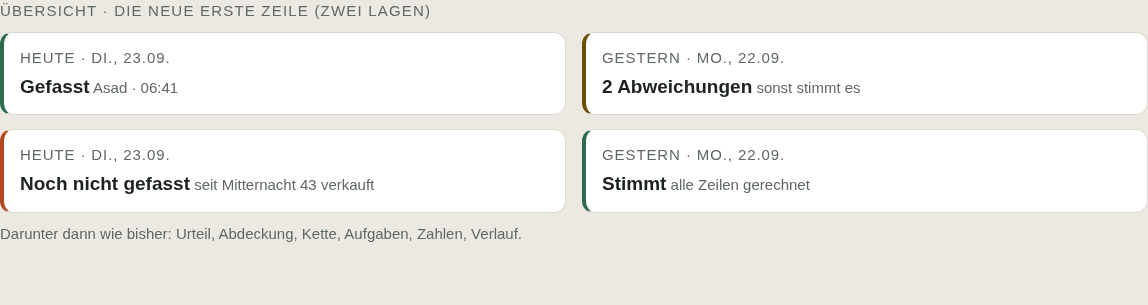
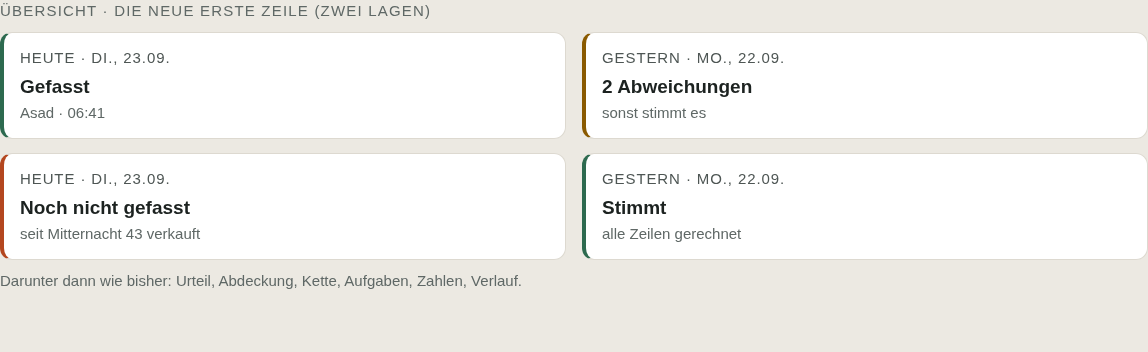
[software-engineer] Runde 23: Bilder nachgebessert und nachgemessen
Drei Fehler im ersten Entwurf, alle am Geraet gefunden:
- Bei 393 px fiel die Spalte "woher" ganz aus dem Bild - und genau die
  sagt, ob eine Zahl gilt. Jetzt steht sie unter dem Artikelnamen, drei
  Spalten statt vier, kein Querscrollen mehr.
- Am MacBook lagen 900 px zwischen Artikelname und seinen Zahlen.
  Begrenzt auf 720 px, wie die Tafel aus Runde 20.
- "seit Mitternacht 43 verkauft" brach mitten im Satz um. Eigene Zeile.

Dazu: die gelbe Fuellung der leeren Zeilen ist weg. Bei 33 von 37
Getraenken waere die halbe Liste gelb gewesen und haette nichts mehr
gesagt; jetzt steht "fehlt - rechnet nicht mit" an der Zeile und die
Zahl im Gruppenkopf.

Gemessen bei 393/744/1440: kein Ueberlauf, keine Ueberlappung, nichts
abgeschnitten, keine Schrift unter 13 px, kein Griff unter 40 px, alle
Zahlenfelder gleich breit und auf derselben Kante.

Claude-Session: https://claude.ai/code/session_01VE9gPp3grGfHsrmsKK7TD6

diff --git a/review/mockup/groessen-frage1.html b/review/mockup/groessen-frage1.html
@@ -939,30 +939,40 @@ tr.weicht td{background:var(--warn-bg)}
 .mockkopf{font:var(--text-xs)/1.4 var(--font-ui);letter-spacing:.08em;
   text-transform:uppercase;color:var(--fg-subtle);margin:0 0 10px}
 .blk{padding-bottom:20px;background:var(--bg)}
-input.zahl-e{width:92px;padding:6px 8px;text-align:right;
+/* Drei Spalten, damit die Tabelle auch bei 393 px ohne Querscrollen passt:
+   „woher" steht unter dem Artikelnamen statt in einer vierten Spalte. */
+/* Am MacBook laegen sonst 900 px zwischen dem Artikelnamen und seinen
+   Zahlen — man verliert beim Hinuebersehen die Zeile. Diese Tabelle wird
+   gelesen und ausgefuellt, nicht durchsucht. */
+.tabhuelle.liste{max-width:720px}
+.tabhuelle.liste table{min-width:0;width:100%}
+.tabhuelle.liste th.r,.tabhuelle.liste td.nw{width:1%}
+input.zahl-e{width:86px;padding:6px 8px;text-align:right;
   font:var(--text-sm)/1 var(--font-ui);
   border:1px solid var(--border);border-radius:var(--radius-sm);
   background:var(--surface);color:var(--fg)}
+.quelle{font-size:var(--text-xs);color:var(--fg-secondary);margin-top:2px}
+.quelle.regel{color:#2d6a4f;font-weight:var(--weight-medium)}
+.quelle.fehlt{color:#8a5a00;font-weight:var(--weight-medium)}
 td.nw{white-space:nowrap}
-.quelle{font-size:var(--text-xs);color:var(--fg-subtle)}
-.quelle.regel{color:var(--ok-fg,#2d6a4f);font-weight:var(--weight-medium)}
-.quelle.leer{color:var(--fg-subtle);font-style:italic}
-tr.fehlt td{background:var(--warn-bg)}
 .frage1{display:grid;grid-template-columns:1fr 1fr;gap:var(--space-4)}
 .f1{display:block;padding:14px 16px;border-radius:var(--radius-lg);
   border:1px solid var(--border);background:var(--surface);
-  text-decoration:none;color:inherit;border-left-width:4px}
-.f1.ok{border-left-color:var(--ok-fg,#2d6a4f)}
-.f1.warn{border-left-color:var(--warn-fg,#8a6d1f)}
+  text-decoration:none;color:inherit;border-left-width:4px;min-height:44px}
+.f1.ok{border-left-color:#2d6a4f}
+.f1.warn{border-left-color:#8a5a00}
 .f1.bad{border-left-color:var(--danger)}
 .f1k{font-size:var(--text-xs);text-transform:uppercase;letter-spacing:.06em;
-  color:var(--fg-subtle);margin-bottom:4px}
-.f1w b{font-size:var(--text-lg)}
+  color:var(--fg-secondary);margin-bottom:4px}
+.f1w b{font-size:var(--text-lg);display:block}
+/* Eigene Zeile, nicht hinter dem fetten Wort: bei 393 px brach
+   „seit Mitternacht 43 verkauft" sonst mitten im Satz um. */
+.f1w .mini{display:block;margin-top:2px}
 @media(max-width:700px){
   .mockseite{padding:16px}
   .frage1{grid-template-columns:1fr}
-  input.zahl-e{width:74px}
-  .tabhuelle table{min-width:520px}
+  input.zahl-e{width:76px}
+  .tabhuelle.liste th,.tabhuelle.liste td{padding-left:10px;padding-right:10px}
 }
 
 </style></head><body><div class="mockseite">
@@ -971,35 +981,13 @@ tr.fehlt td{background:var(--warn-bg)}
  <div class="unter" style="margin-bottom:12px">Einmal hinterlegt, gilt für alle Geräte.
  Gerechnet wird nur, was hier steht — ein leeres Feld heißt „nicht hinterlegt",
  und die Position bleibt aus dem Abgleich heraus.</div>
- <div class="tabhuelle"><table><thead><tr>
-   <th>Artikel</th><th class="r">Gebinde</th><th class="r">ins Glas</th><th>woher</th>
- </tr></thead><tbody><tr class="zwt"><td colspan="4">Wein <span class="mini">57 Artikel</span></td></tr><tr><td>Werner Achs · Goldberg 2024</td><td class="r nw"><input class="zahl-e" type="number" value="750"></td><td class="r nw"><input class="zahl-e" type="number" value="125"></td><td><span class="quelle regel">Regel</span></td></tr><tr><td>Nittnaus · Kalk & Schiefer 2019</td><td class="r nw"><input class="zahl-e" type="number" value="750"></td><td class="r nw"><input class="zahl-e" type="number" value="125"></td><td><span class="quelle regel">Regel</span></td></tr><tr><td>Bründlmayer · Spiegel 2022</td><td class="r nw"><input class="zahl-e" type="number" value="750"></td><td class="r nw"><input class="zahl-e" type="number" value="125"></td><td><span class="quelle regel">Regel</span></td></tr><tr><td>Serena · Piu Frizzante</td><td class="r nw"><input class="zahl-e" type="number" value="750"></td><td class="r nw"><input class="zahl-e" type="number" value="100"></td><td><span class="quelle regel">Regel · Sekt</span></td></tr><tr><td>De Saint Gall · Champagne 1er Cru</td><td class="r nw"><input class="zahl-e" type="number" value="750"></td><td class="r nw"><input class="zahl-e" type="number" value="100"></td><td><span class="quelle regel">Regel · Sekt</span></td></tr><tr class="zwt"><td colspan="4">Getränke <span class="mini">37 Artikel</span></td></tr><tr><td>Gasteiner 1 l</td><td class="r nw"><input class="zahl-e" type="number" value="1000"></td><td class="r nw"><input class="zahl-e" type="number" placeholder="ml"></td><td><span class="quelle">aus dem Artikelnamen</span></td></tr><tr><td>Gasteiner 0,25 l</td><td class="r nw"><input class="zahl-e" type="number" value="250"></td><td class="r nw"><input class="zahl-e" type="number" placeholder="ml"></td><td><span class="quelle">aus dem Artikelnamen</span></td></tr><tr><td>Cola Zero</td><td class="r nw"><input class="zahl-e" type="number" value="350"></td><td class="r nw"><input class="zahl-e" type="number" placeholder="ml"></td><td><span class="quelle">aus „Cola Zero 0,35l"</span></td></tr><tr><td>Orange Lemonade</td><td class="r nw"><input class="zahl-e" type="number" value="350"></td><td class="r nw"><input class="zahl-e" type="number" placeholder="ml"></td><td><span class="quelle">aus „Now-Limo Orange 0,35l"</span></td></tr><tr class="fehlt"><td>Almdudler</td><td class="r nw"><input class="zahl-e" type="number" placeholder="ml"></td><td class="r nw"><input class="zahl-e" type="number" placeholder="ml"></td><td><span class="quelle leer">fehlt</span></td></tr><tr class="fehlt"><td>Spritzerwein</td><td class="r nw"><input class="zahl-e" type="number" placeholder="ml"></td><td class="r nw"><input class="zahl-e" type="number" placeholder="ml"></td><td><span class="quelle leer">fehlt</span></td></tr><tr class="fehlt"><td>Stiegl 0,0 % · 0,33</td><td class="r nw"><input class="zahl-e" type="number" placeholder="ml"></td><td class="r nw"><input class="zahl-e" type="number" placeholder="ml"></td><td><span class="quelle leer">fehlt</span></td></tr><tr class="zwt"><td colspan="4">Vom Fass <span class="mini">1 Artikel</span></td></tr><tr><td>Raschhofer Pils vom Fass</td><td class="r nw"><input class="zahl-e" type="number" value="50000"></td><td class="r nw"><input class="zahl-e" type="number" placeholder="ml"></td><td><span class="quelle regel">Regel · ein Fass 50 l</span></td></tr></tbody></table></div>
+ <div class="tabhuelle liste"><table><thead><tr>
+   <th>Artikel</th><th class="r">Gebinde</th><th class="r">ins Glas</th>
+ </tr></thead><tbody><tr class="zwt"><td colspan="3">Wein <span class="mini">57 Artikel · alle hinterlegt</span></td></tr><tr><td>Werner Achs · Goldberg 2024<div class="quelle regel">Regel · Weinflasche</div></td><td class="r nw"><input class="zahl-e" type="number" value="750"></td><td class="r nw"><input class="zahl-e" type="number" value="125"></td></tr><tr><td>Nittnaus · Kalk & Schiefer 2019<div class="quelle regel">Regel · Weinflasche</div></td><td class="r nw"><input class="zahl-e" type="number" value="750"></td><td class="r nw"><input class="zahl-e" type="number" value="125"></td></tr><tr><td>Bründlmayer · Spiegel 2022<div class="quelle regel">Regel · Weinflasche</div></td><td class="r nw"><input class="zahl-e" type="number" value="750"></td><td class="r nw"><input class="zahl-e" type="number" value="125"></td></tr><tr><td>Serena · Piu Frizzante<div class="quelle regel">Regel · Sekt, Glas 100 ml</div></td><td class="r nw"><input class="zahl-e" type="number" value="750"></td><td class="r nw"><input class="zahl-e" type="number" value="100"></td></tr><tr><td>De Saint Gall · Champagne 1er Cru<div class="quelle regel">Regel · Sekt, Glas 100 ml</div></td><td class="r nw"><input class="zahl-e" type="number" value="750"></td><td class="r nw"><input class="zahl-e" type="number" value="100"></td></tr><tr class="zwt"><td colspan="3">Getränke <span class="mini">37 Artikel · 33 ohne Größe</span></td></tr><tr><td>Gasteiner 1 l<div class="quelle">aus dem Artikelnamen</div></td><td class="r nw"><input class="zahl-e" type="number" value="1000"></td><td class="r nw"><input class="zahl-e" type="number" placeholder="ml"></td></tr><tr><td>Gasteiner 0,25 l<div class="quelle">aus dem Artikelnamen</div></td><td class="r nw"><input class="zahl-e" type="number" value="250"></td><td class="r nw"><input class="zahl-e" type="number" placeholder="ml"></td></tr><tr><td>Cola Zero<div class="quelle">aus „Cola Zero 0,35l"</div></td><td class="r nw"><input class="zahl-e" type="number" value="350"></td><td class="r nw"><input class="zahl-e" type="number" placeholder="ml"></td></tr><tr><td>Orange Lemonade<div class="quelle">aus „Now-Limo Orange 0,35l"</div></td><td class="r nw"><input class="zahl-e" type="number" value="350"></td><td class="r nw"><input class="zahl-e" type="number" placeholder="ml"></td></tr><tr><td>Almdudler<div class="quelle fehlt">fehlt — rechnet nicht mit</div></td><td class="r nw"><input class="zahl-e" type="number" placeholder="ml"></td><td class="r nw"><input class="zahl-e" type="number" placeholder="ml"></td></tr><tr><td>Spritzerwein<div class="quelle fehlt">fehlt — rechnet nicht mit</div></td><td class="r nw"><input class="zahl-e" type="number" placeholder="ml"></td><td class="r nw"><input class="zahl-e" type="number" placeholder="ml"></td></tr><tr><td>Stiegl 0,0 % · 0,33<div class="quelle fehlt">fehlt — rechnet nicht mit</div></td><td class="r nw"><input class="zahl-e" type="number" placeholder="ml"></td><td class="r nw"><input class="zahl-e" type="number" placeholder="ml"></td></tr><tr class="zwt"><td colspan="3">Vom Fass <span class="mini">1 Artikel</span></td></tr><tr><td>Raschhofer Pils vom Fass<div class="quelle regel">Regel · ein Fass 50 l</div></td><td class="r nw"><input class="zahl-e" type="number" value="50000"></td><td class="r nw"><input class="zahl-e" type="number" placeholder="ml"></td></tr></tbody></table></div>
  <div class="reihe" style="margin-top:14px">
-   <button class="b stark">Alle Vorgaben übernehmen</button>
-   <span class="mini" style="margin-left:12px">53 Weine · 4 Sekt · 1 Fass · 4 Getränke aus dem Namen</span>
- </div>
+   <button class="b stark">Alle Vorgaben übernehmen</button></div>
+ <div class="mini" style="margin-top:8px">Danach rechnen 62 von 95 Artikeln.
+ Die übrigen 33 brauchen eine Zahl von Hand.</div>
 </section></div>
-<div id="frage1" class="blk"><div class="mockkopf">Übersicht · die neue erste Zeile (zwei Lagen)</div><section>
- <div class="frage1">
-   <a class="f1 heute ok" href="#">
-     <div class="f1k">Heute · Di., 23.09.</div>
-     <div class="f1w"><b>Gefasst</b> <span class="mini">Asad · 06:41</span></div>
-   </a>
-   <a class="f1 gestern warn" href="#">
-     <div class="f1k">Gestern · Mo., 22.09.</div>
-     <div class="f1w"><b>2 Abweichungen</b> <span class="mini">sonst stimmt es</span></div>
-   </a>
- </div>
- <div class="frage1" style="margin-top:14px">
-   <a class="f1 heute bad" href="#">
-     <div class="f1k">Heute · Di., 23.09.</div>
-     <div class="f1w"><b>Noch nicht gefasst</b> <span class="mini">seit Mitternacht 43 verkauft</span></div>
-   </a>
-   <a class="f1 gestern ok" href="#">
-     <div class="f1k">Gestern · Mo., 22.09.</div>
-     <div class="f1w"><b>Stimmt</b> <span class="mini">alle Zeilen gerechnet</span></div>
-   </a>
- </div>
- <div class="mini" style="margin-top:10px">Darunter dann wie bisher: Urteil, Abdeckung, Kette, Aufgaben, Zahlen, Verlauf.</div>
-</section></div>
+<div id="frage1" class="blk"><div class="mockkopf">Übersicht · die neue erste Zeile (zwei Lagen)</div><section><div class="frage1"><a class="f1 ok" href="#"><div class="f1k">Heute · Di., 23.09.</div><div class="f1w"><b>Gefasst</b><span class="mini">Asad · 06:41</span></div></a><a class="f1 warn" href="#"><div class="f1k">Gestern · Mo., 22.09.</div><div class="f1w"><b>2 Abweichungen</b><span class="mini">sonst stimmt es</span></div></a></div><div class="frage1" style="margin-top:14px"><a class="f1 bad" href="#"><div class="f1k">Heute · Di., 23.09.</div><div class="f1w"><b>Noch nicht gefasst</b><span class="mini">seit Mitternacht 43 verkauft</span></div></a><a class="f1 ok" href="#"><div class="f1k">Gestern · Mo., 22.09.</div><div class="f1w"><b>Stimmt</b><span class="mini">alle Zeilen gerechnet</span></div></a></div><div class="mini" style="margin-top:10px">Darunter dann wie bisher: Urteil, Abdeckung, Kette, Aufgaben, Zahlen, Verlauf.</div></section></div>
 </div></body></html>
